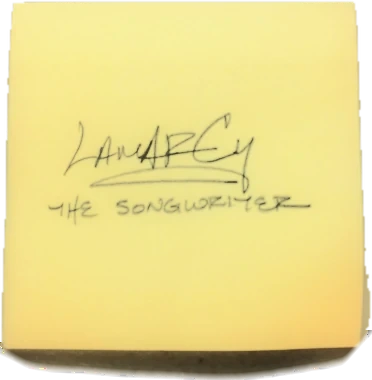
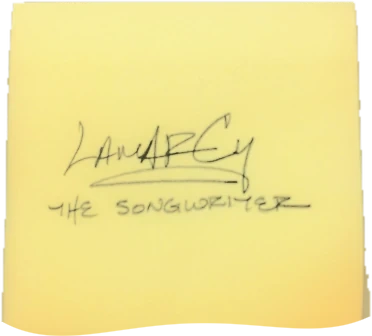
Gateway: remove the sticky notes' shadows
The sheets sit flat now -- no contact shadow in the image, no CSS shadow under
it. Paper texture and wrinkles are untouched; only the shadow is gone.

The contact shadow is cut rather than faded. Paper runs 177-240 in luminance
and the shadow 40-70, so a threshold at 120 separates them with wide margin,
and the sheets are cropped to the paper edge (380px tall -> 336-342px).

The new bottom edge is fitted as a degree-4 polynomial, which is smooth by
construction and so cannot stair-step, then offset down until it sits at or
below the true paper edge everywhere. Two cheaper approaches failed: a plain
smoothed average left 115 shadow pixels at the bottom-right where the sheet
curves up sharply, and clamping per-column to the detected edge cleared those
but put 4px of raggedness back in. The generator now asserts both properties
-- nothing below 70 luminance in the lower third, edge raggedness <= 2px.

CSS: dropped the drop-shadow under the photographed sheet, the painted note's
box-shadow, and the lifted corner's cast shadow. Also dropped the -4% lift on
the header, which existed only to clear the old contact shadow -- with the
frame now all paper, the writing centres on its own.

Removed the img width/height attributes: cropping left the sheets at differing
heights, and the element is absolutely positioned and sized by CSS, so the
attributes would only have been wrong.

ASSET_V -> 3, since the images changed again and /gateway/* caches for a week.
[…]

diff --git a/tools/blank-sticky-note.py b/tools/blank-sticky-note.py
@@ -128,46 +128,60 @@ def verify(rgb, out, alpha):
 
 
 # --- bottom edge -------------------------------------------------------------
-# The background removal clipped the contact shadow at a hard, stair-stepped
-# boundary, so every note ended in a jagged edge -- the photographed pair as
-# much as the generated ones. The shadow's own pixels survive underneath (RGB
-# averages 44,42,40 where alpha is 0), so fading the alpha out reveals real
-# shadow rather than a white fringe.
+# The contact shadow is removed, not softened: the notes are meant to sit flat
+# with no shadow at all. Paper runs 177-240 in luminance and the shadow 40-70,
+# so a threshold at 120 separates them with wide margin either side.
 
-ZONE_TOP = 330     # above this the cutout's own alpha is left alone
-FADE     = 9.0     # rows over which the shadow dissolves
-SMOOTH   = 41      # window that turns the ragged edge into the sheet's curve
+PAPER_MIN = 120    # luminance floor that still counts as paper
+EDGE_DEG  = 4      # the sheet's bottom is a gentle curve
+EDGE_AA   = 1.3    # antialias width on the new edge
 
 
-def soften_bottom(im):
+def strip_shadow(im):
+    """Cut the contact shadow off the bottom, keeping the paper and its wrinkles.
+
+    The bottom is fitted as a low-order polynomial -- smooth by construction,
+    so it cannot stair-step -- then offset down until it sits at or below the
+    true paper edge everywhere. Clamping per-column instead reintroduced 4px of
+    raggedness; a plain smoothed average left a sliver of shadow at the corners
+    where the sheet curves up sharply.
+    """
     a = np.asarray(im.convert('RGBA')).astype(np.float32)
     rgb, al = a[..., :3], a[..., 3]
     h, w = al.shape
+    L = .2126 * rgb[..., 0] + .7152 * rgb[..., 1] + .0722 * rgb[..., 2]
+    ispaper = (L > PAPER_MIN) & (al > 128)
 
     edge = np.full(w, np.nan)
     for c in range(w):
-        op = np.nonzero(al[:, c] > 128)[0]
-        if op.size:
-            edge[c] = op.max()
+        r = np.nonzero(ispaper[:, c])[0]
+        if r.size:
+            edge[c] = r.max()
     idx = np.arange(w)
     ok = ~np.isnan(edge)
-    edge = np.interp(idx, idx[ok], edge[ok])
+    e = np.interp(idx, idx[ok], edge[ok])
 
-    pad = np.pad(edge, (SMOOTH, SMOOTH), mode='edge')
-    curve = np.convolve(pad, np.ones(SMOOTH) / SMOOTH, mode='same')[SMOOTH:-SMOOTH]
+    x = idx / w - .5
+    curve = np.polyval(np.polyfit(x, e, EDGE_DEG), x)
+    curve -= max(0.0, float((curve - e).max())) + 1.0
 
     ys = np.arange(h)[:, None]
-    ramp = np.clip((curve[None, :] - ys) / FADE + 0.5, 0, 1) * 255.0
+    cut = np.clip((curve[None, :] - ys) / EDGE_AA + 0.5, 0, 1)
+    img = Image.fromarray(np.dstack([rgb, np.minimum(al, cut * 255.0)]).astype(np.uint8))
+    img = img.crop(img.getbbox())
 
-    t = np.clip((ys - ZONE_TOP) / 12.0, 0, 1)
-    out = np.where(ys >= ZONE_TOP, al * (1 - t) + np.minimum(al, ramp) * t, al)
-    out = np.where(ys >= ZONE_TOP,
-                   np.maximum(out, np.where(ys > curve[None, :] - FADE, ramp, 0)),
-                   out)
-
-    jag = np.abs(np.diff(edge)).max()
-    print(f'  bottom edge: raggedness {jag:.0f}px -> smooth curve, {FADE:.0f}px fade')
-    return Image.fromarray(np.dstack([rgb, np.clip(out, 0, 255)]).astype(np.uint8))
+    a2 = np.asarray(img.convert('RGBA'))
+    al2 = a2[..., 3]
+    L2 = .2126 * a2[..., 0] + .7152 * a2[..., 1] + .0722 * a2[..., 2]
+    low = al2 > 128
+    low[:int(img.height * 0.70)] = False
+    assert L2[low].min() > 70, 'contact shadow still visible below the sheet'
+    cols = [int(np.nonzero(al2[:, c] > 128)[0].max())
+            for c in range(5, img.width - 5) if (al2[:, c] > 128).any()]
+    jag = max(abs(np.diff(cols)))
+    assert jag <= 2, f'bottom edge is stair-stepped ({jag}px)'
+    print(f'  shadow stripped: {im.size} -> {img.size}, edge raggedness {jag}px')
+    return img
 
 
 def main():
@@ -179,11 +193,11 @@ def main():
         print(f'  {name:22} {img.size}  {os.path.getsize(p)} bytes')
 
     # The two lettered photographs get the same treatment, or the row would be
-    # three smooth notes beside two jagged ones -- cohesion is the whole point.
-    save(soften_bottom(Image.open(SRC)), 'note-dlamar.webp')
-    save(soften_bottom(Image.open(SRC_LAMARCY)), 'note-lamarcy.webp')
+    # three shadowless notes beside two with shadows.
+    save(strip_shadow(Image.open(SRC)), 'note-dlamar.webp')
+    save(strip_shadow(Image.open(SRC_LAMARCY)), 'note-lamarcy.webp')
 
-    sheet = soften_bottom(sheet)
+    sheet = strip_shadow(sheet)
     # Three sheets off one pad, so the row is not one image repeated.
     save(sheet, 'note-blank-a.webp')
     save(ImageOps.mirror(sheet), 'note-blank-b.webp')
